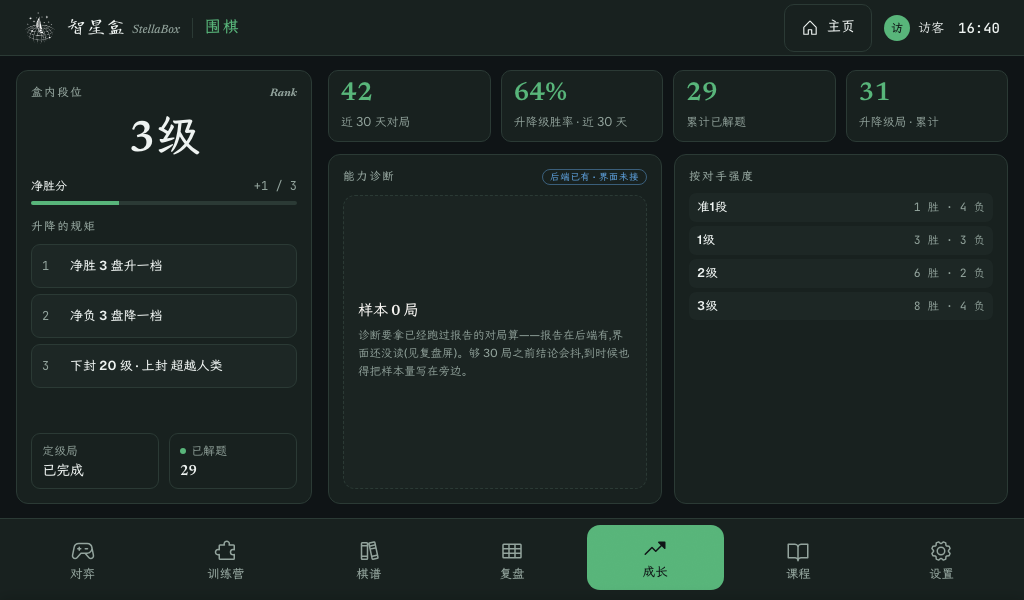
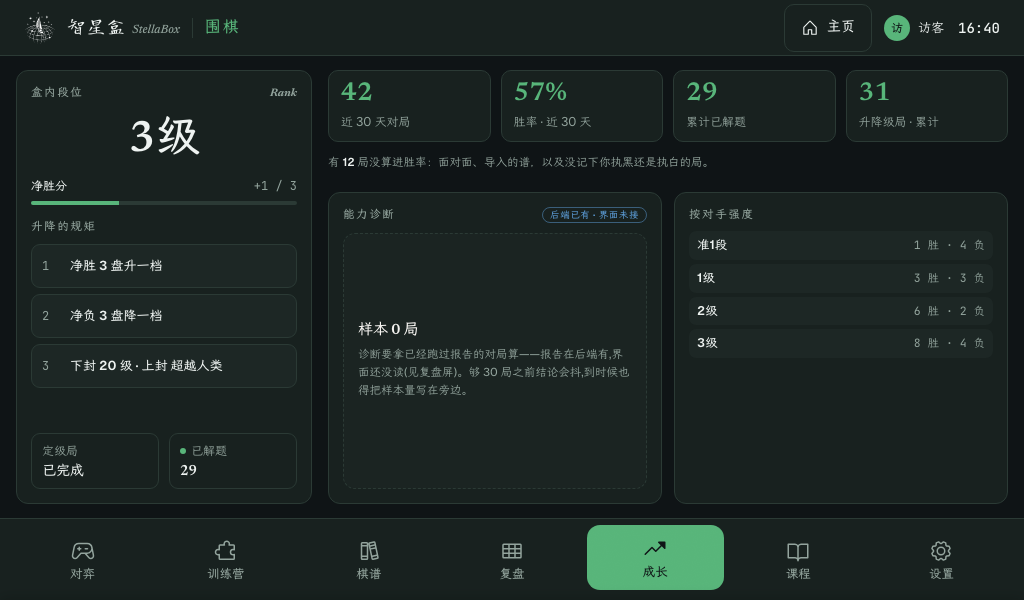
feat(growth): 胜率那一格按新口径显示(G2 前端,待 Fan 确认四图)
屏 22 胜率格改读 summary 的三个可选新字段(decided/wins/losses_in_window):
有就写「胜率 · 近 30 天」,分母之外的局由一句 setnote「有 N 局没算进胜率」说出来;
老云端没给这三个字段时,数和标签一起退回「升降级胜率」,那句话也不出现
(老口径下那个差额是「不是升降级局」,不是「没记执色」)。分母为 0 写 —,不写 0%。

这一步只有前端,后端字段还没写 —— 按切片规则,四图经 Fan 确认前不进后端。
四图夹具给了新字段(42 局里 30 局算得出 ⇒ 57%);另补 stub `/api/v1/health` 为就绪:
2026-09-17 加的引擎预热横幅会把兜底的 `{}` 读成「还在预热」,四图里凭空多一条。
参考图没提交:这次重取只是被截图框的小数坐标往下挪了一行(offset 1 逐像素相同)。

承重实测:数据条下面新增一行,落在高度受限的右栏里 ⇒ 把既有「档位一多」那条
几何闸的夹具改成最满态(20 档 + 两句 setnote 同时在),读数:档位表溢出 431、
右栏溢出 0、诊断块在中间区内、两格贴底 15=15、整屏 600,程序化与真滚轮都滚得动。

计划更正:plan 说 `rankedWinrate` 有 galaxy 在用 —— 实际只有 GrowthPage 一个调用者,
growthApi.ts 不是共享领地。

diff --git a/katrain/web/ui/src/kiosk/pages/GrowthPage.tsx b/katrain/web/ui/src/kiosk/pages/GrowthPage.tsx
@@ -4,7 +4,7 @@ import { useAuth } from '../../context/AuthContext';
 import { useTranslation } from '../../hooks/useTranslation';
 import { useTsumegoProgress } from '../../context/TsumegoProgressContext';
 import { useAiLadderStatus } from '../../features/aiLadder/useAiLadderStatus';
-import { getGrowthSummary, rankedWinrate, type GrowthSummary } from '../api/growthApi';
+import { getGrowthSummary, winrateCell, type GrowthSummary } from '../api/growthApi';
 
 /**
  * 屏 22 · 成长(L1 两栏)。
@@ -32,12 +32,15 @@ import { getGrowthSummary, rankedWinrate, type GrowthSummary } from '../api/grow
  * 留下的只有「能力诊断」那一块:它要拿**已经跑过报告**的对局算,那是另一条链(复盘屏),
  * 稿子的诚实空态原样照搬。
  *
- * ## 胜率为什么只算升降级局
+ * ## 胜率算哪些局
  *
- * `user_games.result` 存的是**哪一方赢**(`"B+R"`),表里**没有任何一列记这个用户坐的是哪一方**
- * (测试里对着 `__table__.columns` 断言过)。拿玩家名去猜就是在编。
- * `ai_ladder_game_ledger` 有 `user_color`,`result` 本身就是从这个用户视角写的 ——
- * 所以这一格的标签必须写明「升降级」,不能写成光秃秃的「胜率」。
+ * 2026-09 之前 `user_games` **没有一列记这个用户坐哪一方**,所以只有升降级局
+ * (`ai_ladder_game_ledger` 有 `user_color`)算得出胜负,标签只能写「升降级胜率」。
+ * 现在 `user_games.user_color` 补上了,人机局与平台引擎局也算得出;面对面、导入的谱、
+ * 以及这一列上线之前的非升降级局仍然没有这个事实 —— 它们**不进分母**,差额由屏上
+ * 那句「有 N 局没算进胜率」说出来。拿玩家名去猜执色就是在编,所以不猜。
+ *
+ * 云端还没部署到这一版时响应里没有新字段 ⇒ 数和标签**一起**退回升降级口径(`winrateCell`)。
  */
 
 /** 稿子那三条升降规矩。①② 与 `formatNetScoreValueText`(±3)一致;③ 是**改过的**:稿子写「上封 12 段」。 */
@@ -126,16 +129,18 @@ const GrowthPage = () => {
   // 数没取到就是没取到。**四格一个都不许写 0** —— 「没下过」和「没读到」在屏上是两句话。
   const dash = t('growth:no_data', '—');
   const num = (v: number | undefined) => (v === undefined ? dash : String(v));
-  const wr = summary ? rankedWinrate(summary) : null;
+  const cell = summary ? winrateCell(summary) : null;
 
   const stats: { v: string; k: string; good?: boolean }[] = [
     { v: num(summary?.games_in_window), k: t('growth:stat_recent', '近 30 天对局') },
     {
-      v: wr === null ? dash : pct(wr),
+      v: cell?.value == null ? dash : pct(cell.value),
       // 口径必须写在标签里(共享外壳 §5 的原话:「一个光秃秃的 58% 谁也不知道是哪来的」)。
-      // 「升降级」三个字是**承重的**:只有那一种对局的胜负是从这个用户视角记下来的。
-      k: t('growth:stat_winrate', '升降级胜率 · 近 30 天'),
-      good: wr !== null && wr >= 0.5,
+      // 老云端只给得出升降级那一半 ⇒ 标签跟着退。显示一个口径、算另一个是这屏最容易犯的错。
+      k: cell?.scope === 'all'
+        ? t('growth:stat_winrate_all', '胜率 · 近 30 天')
+        : t('growth:stat_winrate', '升降级胜率 · 近 30 天'),
+      good: cell?.value != null && cell.value >= 0.5,
     },
     { v: solved === null ? dash : String(solved), k: t('growth:stat_solved', '累计已解题') },
     { v: num(summary?.ranked_total), k: t('growth:stat_ranked', '升降级局 · 累计') },
@@ -206,6 +211,15 @@ const GrowthPage = () => {
             {t('growth:local_note_a', '这几个数是')}
             <b>{t('growth:local_note_b', '本机记录')}</b>
             {t('growth:local_note_c', '。账在云端,盒子上这一份可能少几局。')}
+          </p>
+        )}
+        {/* 胜率的分母比「近 30 天对局」小的时候,差额要说出来 —— 否则 10 局里只算了 2 局的
+            50% 和 10 局全算的 50% 在屏上长得一模一样。 */}
+        {cell && cell.scope === 'all' && cell.unknownGames > 0 && (
+          <p className="setnote" data-testid="growth-unknown-seat">
+            {t('growth:unknown_seat_a', '有 ')}
+            <b>{cell.unknownGames}</b>
+            {t('growth:unknown_seat_b', ' 局没算进胜率：面对面、导入的谱，以及没记下你执黑还是执白的局。')}
           </p>
         )}
 

diff --git a/katrain/web/ui/tests/kiosk-screen-22-growth.fourup.spec.ts b/katrain/web/ui/tests/kiosk-screen-22-growth.fourup.spec.ts
@@ -40,10 +40,12 @@ const OUT = resolve(process.cwd(),
  *
  *  · **能力诊断**那一块照搬稿子的诚实空态:它要拿**已经跑过报告**的对局算,那是另一条链
  *    (复盘屏),这一轮不接。标签用 `.wip.have`(蓝 = 后端已有 · 界面未接),不是琥珀。
- *  · **胜率那一格的标签是「升降级胜率」,不是稿子的「胜率 · 同期」。**
- *    `user_games.result` 存的是**哪一方赢**(`"B+R"`),表里**没有一列记这个用户坐哪一方**
- *    (测试对着 `__table__.columns` 断言过)。只有升降级账本的 `result` 是从用户视角写的。
+ *  · **胜率那一格的标签是「胜率 · 近 30 天」,不是稿子的「胜率 · 同期」**,底下多一句
+ *    「有 N 局没算进胜率」。2026-09 起 `user_games.user_color` 记下了用户坐哪一方,
+ *    人机局也算得出胜负;面对面、导入的谱、以及这一列上线之前的非升降级局没有这个事实,
+ *    **不进分母** —— 分母比「近 30 天对局」小的时候差额必须说出来。
  *    **口径写进标签**是共享外壳 §5 的硬要求(原话:「一个光秃秃的 58% 谁也不知道是哪来的」)。
+ *    (云端没部署这一版时标签退回「升降级胜率」,那一态由 `kiosk-screen-22-growth.spec.ts` 的默认夹具覆盖。)
  *  · 取图机器上没有摄像头 ⇒ 与实体盘有关的东西一律不出现(这一屏本来也没有)。
  */
 
@@ -68,6 +70,10 @@ const SUMMARY = {
   ranked_total: 31,
   ranked_wins_in_window: 9,
   ranked_losses_in_window: 5,
+  // 42 局里 30 局算得出执色 ⇒ 胜率 17/30,差的 12 局由那句 setnote 说出来。
+  decided_games_in_window: 30,
+  wins_in_window: 17,
+  losses_in_window: 13,
   by_opponent_rung: [
     { rung: 21, rank_name: '准1段', wins: 1, losses: 4 },
     { rung: 20, rank_name: '1级', wins: 3, losses: 3 },
@@ -101,6 +107,9 @@ const stub = async (page: Page) => {
         sync_state: 'unbound', recognition_ready: false, led_connected: null, bound_session_id: null } });
     }
     if (path === '/api/v1/geometry/status') return route.fulfill({ status: 404, json: { detail: 'disabled' } });
+    // 引擎已就绪 —— 顶栏那条「AI 引擎准备中」(2026-09-17 加的预热提示)只在开机头一两分钟出现,
+    // 不是这一屏的常态。不 stub 它的话兜底的 `{}` 会被读成「还在预热」,四图里凭空多一条横幅。
+    if (path === '/api/v1/health') return route.fulfill({ json: { engines: { local: 'reachable' } } });
     return route.fulfill({ json: {} });
   });
 };
@@ -132,9 +141,9 @@ test('四图:成长 ←→ sample-go/shots/22-growth.png', async ({ page }) => {
       + '④ 「按对手强度」不用等:ai_ladder_game_ledger 每行带 opponent_rung,而 CHECK 约束'
       + '强制 counted 的行必须有档位 ⇒ **已计入的局一局不漏**,打过哪档列哪档 · '
       + '⇒ **中段那一大块红是预期的:稿子那儿是一段道歉,实现那儿是真数字** · '
-      + '**胜率那格标签是「升降级胜率」不是「胜率」**:user_games.result 说的是哪一方赢,'
-      + '表里没有一列记这个用户坐哪一方,只有升降级账本的 result 是从用户视角写的——'
-      + '口径必须写进标签 · **能力诊断**照搬稿子的诚实空态(要拿跑过报告的对局算,那是复盘那条链)',
+      + '**胜率那格是「胜率 · 近 30 天」**:user_games 记下了执色,人机局也算得出胜负;'
+      + '42 局里 30 局算得出 ⇒ 57%,差的 12 局由底下那句「没算进胜率」说出来 · '
+      + '**能力诊断**照搬稿子的诚实空态(要拿跑过报告的对局算,那是复盘那条链)',
   });
   console.log(`[fourup 22-growth] both=${r.both} refOnly=${r.refOnly} implOnly=${r.implOnly}`);
 });

diff --git a/katrain/web/ui/src/kiosk/api/growthApi.ts b/katrain/web/ui/src/kiosk/api/growthApi.ts
@@ -24,6 +24,15 @@ export interface GrowthSummary {
   /** 只列**打过的**档,高档在前。没打过的档不会出现 —— 不摆一排 0 胜 0 负。 */
   by_opponent_rung: GrowthOpponentRung[];
   /**
+   * 「算得出胜负的局」——记下了这个用户执黑还是执白、且 `result` 判得出赢家的那些。
+   * 与 `games_in_window` **口径不同**:那个数的是下了多少局。
+   * **可选**:云端可能还没部署到这一版,那时胜率退回升降级口径(见 `winrateCell`)。
+   * 所以 `isGrowthSummary` 不查它们 —— 查了就等于把老云端的正常响应判成坏 payload。
+   */
+  decided_games_in_window?: number;
+  wins_in_window?: number;
+  losses_in_window?: number;
+  /**
    * 这几个数是谁数出来的。口径见 `api/userGamesApi.ts` 的 `DataAuthority` ——
    * **一个概念只许有一套词**,复盘列表那句「本机 N 局 / 共 N 局」用的是同一格。
    *
@@ -86,4 +95,27 @@ export const getGrowthSummary = async (token?: string, signal?: AbortSignal): Pr
 export const rankedWinrate = (s: GrowthSummary): number | null => {
   const decided = s.ranked_wins_in_window + s.ranked_losses_in_window;
   return decided === 0 ? null : s.ranked_wins_in_window / decided;
+};
+
+/**
+ * 屏上胜率那一格该显示什么。**标签跟着数走** —— 显示一个口径、算另一个,是这一屏最容易犯的错。
+ *
+ * · 云端给了新字段 ⇒ `scope: 'all'`,分母是所有算得出执色的局。
+ * · 没给(老云端)⇒ 退回升降级口径,`scope: 'ranked'`,屏上的标签也退回「升降级胜率」。
+ * · 分母是 0 ⇒ `value: null`,屏上写 `—`。**不返回 0%**:「一局没下」和「全输了」是两句话。
+ *
+ * `unknownGames` 是「下了但没算进胜率」的局数(新字段存在时才有意义),屏上那句
+ * 「有 N 局没算进胜率」就是它。老口径下这个差额的意思是「不是升降级局」,不是「没记执色」,
+ * 所以那时恒为 0 —— 不把一句在老口径下不成立的话说出来。
+ */
+export const winrateCell = (s: GrowthSummary): {
+  value: number | null; scope: 'all' | 'ranked'; unknownGames: number;
+} => {
+  if (typeof s.decided_games_in_window === 'number') {
+    const decided = s.decided_games_in_window;
+    const unknownGames = Math.max(0, s.games_in_window - decided);
+    if (decided === 0) return { value: null, scope: 'all', unknownGames };
+    return { value: (s.wins_in_window ?? 0) / decided, scope: 'all', unknownGames };
+  }
+  return { value: rankedWinrate(s), scope: 'ranked', unknownGames: 0 };
 };

diff --git a/katrain/web/ui/src/kiosk/__tests__/GrowthPage.test.tsx b/katrain/web/ui/src/kiosk/__tests__/GrowthPage.test.tsx
@@ -147,6 +147,40 @@ describe('屏 22 成长', () => {
     expect(screen.getByTestId('growth-stats')).toHaveTextContent('升降级胜率 · 近 30 天');
   });
 
+  // 2026-09 起 `user_games` 记下了「用户坐哪一方」⇒ 云端给得出全部算得出执色的局。
+  it('有算得出胜负的局时,那一格是百分比、标签是「胜率 · 近 30 天」', async () => {
+    mocks.summary = SUMMARY({ games_in_window: 10, decided_games_in_window: 8, wins_in_window: 6, losses_in_window: 2 });
+    render(<GrowthPage />);
+    await waitFor(() => expect(statValues()[0]).toBe('10'));
+    expect(statValues()[1]).toBe('75%');
+    expect(screen.getByTestId('growth-stats')).toHaveTextContent('胜率 · 近 30 天');
+    expect(screen.getByTestId('growth-stats')).not.toHaveTextContent('升降级胜率');
+  });
+
+  it('一局都算不出执色时写 —,并说清有几局没算进去', async () => {
+    mocks.summary = SUMMARY({ games_in_window: 5, decided_games_in_window: 0, wins_in_window: 0, losses_in_window: 0 });
+    render(<GrowthPage />);
+    await waitFor(() => expect(statValues()[0]).toBe('5'));
+    expect(statValues()[1]).toBe('—');
+    expect(screen.getByTestId('growth-unknown-seat')).toHaveTextContent('5');
+  });
+
+  it('每一局都算得出执色时不说那句话 —— 没话说就不占地方', async () => {
+    mocks.summary = SUMMARY({ games_in_window: 3, decided_games_in_window: 3, wins_in_window: 2, losses_in_window: 1 });
+    render(<GrowthPage />);
+    await waitFor(() => expect(statValues()[0]).toBe('3'));
+    expect(screen.queryByTestId('growth-unknown-seat')).toBeNull();
+  });
+
+  // 云端还没部署这一版时,老响应里没有那三个键:数退回升降级口径,**标签也跟着退**,
+  // 也不说「没算进去」那句 —— 老口径下那个差额不是「没记执色」,是「不是升降级局」。
+  it('老云端没给新字段时,标签退回「升降级胜率」,也不说没算进去那句', async () => {
+    render(<GrowthPage />);
+    await waitFor(() => expect(statValues()[0]).toBe('12'));
+    expect(screen.getByTestId('growth-stats')).toHaveTextContent('升降级胜率 · 近 30 天');
+    expect(screen.queryByTestId('growth-unknown-seat')).toBeNull();
+  });
+
   it('一局升降级都没下时胜率是「—」,不是 0%', async () => {
     mocks.summary = SUMMARY({ ranked_wins_in_window: 0, ranked_losses_in_window: 0 });
     render(<GrowthPage />);

diff --git a/katrain/web/ui/src/kiosk/api/growthApi.test.ts b/katrain/web/ui/src/kiosk/api/growthApi.test.ts
@@ -1,0 +1,31 @@
+import { describe, it, expect } from 'vitest';
+import { winrateCell, type GrowthSummary } from './growthApi';
+
+const base: GrowthSummary = {
+  window_days: 30, games_in_window: 0, ranked_total: 0,
+  ranked_wins_in_window: 0, ranked_losses_in_window: 0,
+  by_opponent_rung: [], authority: 'cloud',
+};
+
+describe('winrateCell', () => {
+  it('有新字段时算全部算得出执色的局', () => {
+    const got = winrateCell({ ...base, games_in_window: 10, decided_games_in_window: 8, wins_in_window: 6, losses_in_window: 2 });
+    expect(got).toEqual({ value: 0.75, scope: 'all', unknownGames: 2 });
+  });
+
+  it('窗口里有对局但一局都算不出执色 ⇒ 没有值,并把差额报出来', () => {
+    const got = winrateCell({ ...base, games_in_window: 5, decided_games_in_window: 0, wins_in_window: 0, losses_in_window: 0 });
+    expect(got.value).toBeNull();
+    expect(got.unknownGames).toBe(5);
+  });
+
+  // 云端还没部署新版本时,老响应里没有这三个键 —— 退回升降级口径,**标签也要跟着退**。
+  it('老云端(没有新字段)退回升降级口径', () => {
+    const got = winrateCell({ ...base, games_in_window: 4, ranked_wins_in_window: 3, ranked_losses_in_window: 1 });
+    expect(got).toEqual({ value: 0.75, scope: 'ranked', unknownGames: 0 });
+  });
+
+  it('一局没下时是 null,不是 0%', () => {
+    expect(winrateCell({ ...base, decided_games_in_window: 0, games_in_window: 0 }).value).toBeNull();
+  });
+});

diff --git a/katrain/web/ui/tests/kiosk-screen-22-growth.spec.ts b/katrain/web/ui/tests/kiosk-screen-22-growth.spec.ts
@@ -125,8 +125,19 @@ test('L1 外框:左栏 296 · 右栏 680 · 中间区 434(有 Dock 的一级页)
 });
 
 test('打过的档一多:滚的是那张表自己,右栏不被顶破,两格照旧贴底', async ({ page }) => {
-  await open(page, summary({ by_opponent_rung: MANY_RUNGS }));
+  // **右栏造到最满**:20 档战绩 + 数据条下面那两句 setnote 同时出现(「本机记录」+
+  // 「有 N 局没算进胜率」)。两句各占一行,吃的是 `.gdiag` 的高度 —— 在受限高度里
+  // 加节点,要在它们都在的那一态量,不是在没有它们的那一态量。
+  await open(page, summary({
+    by_opponent_rung: MANY_RUNGS,
+    authority: 'local_cache',
+    decided_games_in_window: 30,
+    wins_in_window: 17,
+    losses_in_window: 13,
+  }));
   await page.waitForSelector('[data-testid="growth-by-rung"] .grung');
+  await expect(page.getByTestId('growth-local-note'), '最满那一态没造出来 —— 少了「本机记录」那句').toBeVisible();
+  await expect(page.getByTestId('growth-unknown-seat'), '最满那一态没造出来 —— 少了「没算进胜率」那句').toBeVisible();
 
   const g = await page.evaluate(() => {
     const rungs = document.querySelector('.grungs') as HTMLElement;
